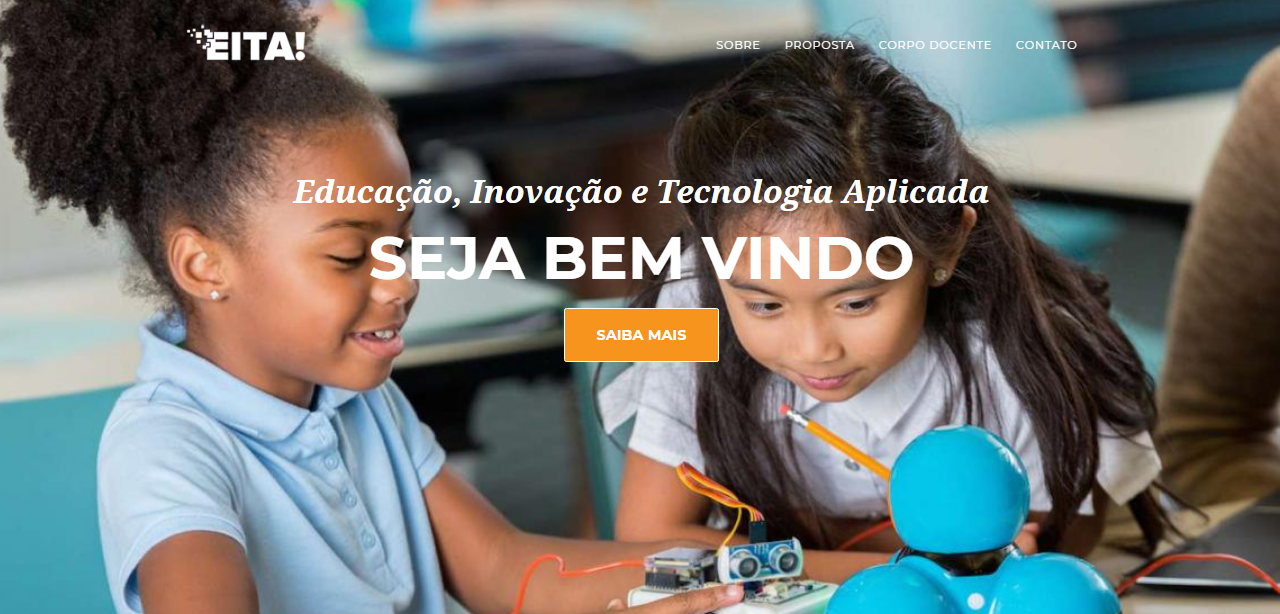
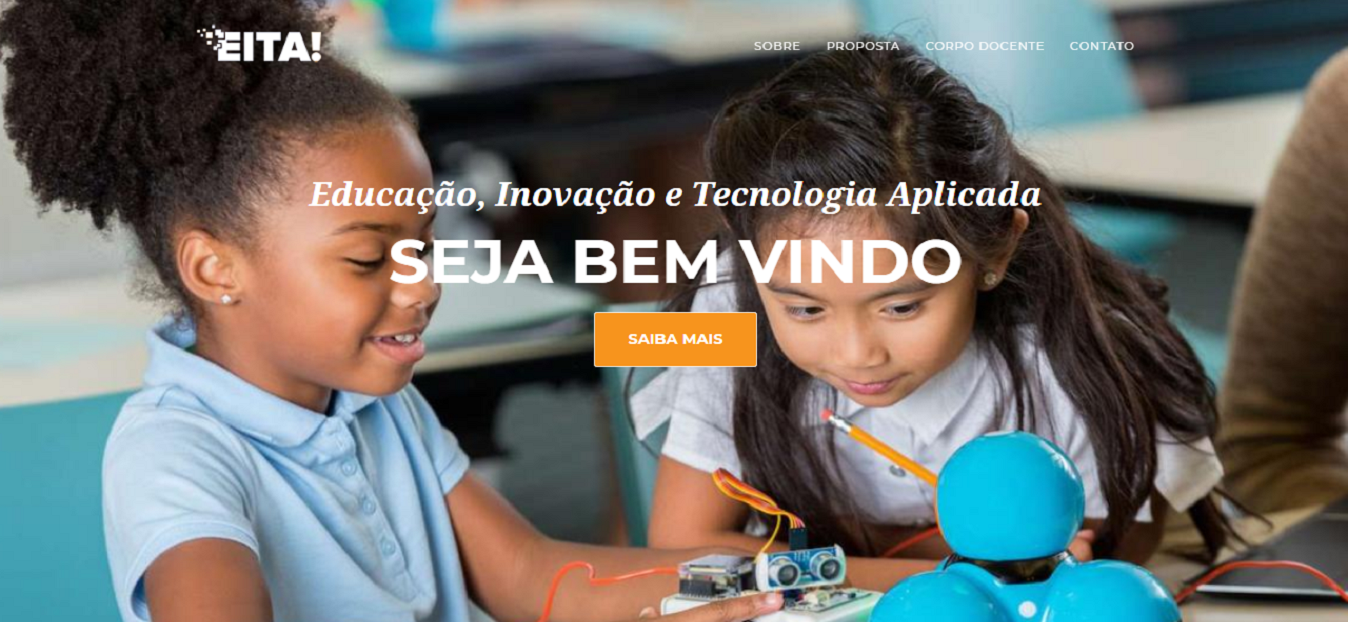
atualizações pt1

diff --git a/src/index.html b/src/index.html
@@ -22,8 +22,9 @@
   
 
 <!--Header-->
-<div class="container-fluid p-0">
-  <img src="../assets/header.png" class="w-100" style="min-height: 300px;">
+<div class="container-fluid p-0 flex-box container-box">
+  <img src="../assets/header.png" class="w-100">
+  
   <div class="cma">
     <h1>Junte-se a nós!</h1>
     
@@ -31,6 +32,7 @@
       maior movimento de 
        empreendedorismo jovem 
         do mundo.</p>
+        <button type="button" class="btn btn-primary">Inscreva-se</button>
   </div>
   
 </div>
@@ -38,10 +40,7 @@
 <!--Datas -->
   <div class="container-fluid">
           <div class="row">
-            <div class="col-sm p-4 text-center border border-white bg text-white">
-              <p>Etapas do Processo</p>
-              <a>Veja aqui o Edital!</a>
-            </div>
+           
             <div class="col-sm p-4 text-center border border-white bg text-white">
               <p>INSCRIÇÕES</p>
               <p> 13/Abril - 19/Abril</p>
@@ -62,6 +61,10 @@
               <p>RESULTADO FINAL</p>
               <p>01/Junho</p>
             </div>
+            <div class="col-sm p-4 text-center border border-white bg text-white" id="block-insc">
+              <p>CONFIRA O EDITAL</p>
+              <a>Link</a>
+            </div>
 
           </div>
           
@@ -73,15 +76,17 @@
       <div class="col-sm pt-5 pl-5">
         <h1><strong>Quem somos</strong></h1>
 
-        <p class="ml-4">
+        <p class="w-75 fonts-class ">
           Somos a empresa júnior de tecnologia da informação da Universidade Federal Rural de
           Pernambuco, formada por estudantes e sem fins lucrativos, buscamos o aprimoramento dos 
           alunos dos curso de graduação através da realização de projetos e da vivência empresarial,
           atuando no desenvolvimento de soluções para a web e dispositivos móveis, buscanto sempre semear
           a cultura empreendedora aliada a tecnologia dentro do espaço universitário.
         </p>
+        
+        <div class=" expo">
         <h1><strong>Movimento Empresa</strong></h1>
-        <p class="ml-4">
+        <p class="w-75 fonts-class">
           O MEJ tem como propósito a busca por um Brasil Empreendedor.
           Trabalhamos todos os dias para formar pessoas comprometidas e 
           capazes de transformar o Brasil por meio da realização de mais e
@@ -89,9 +94,10 @@
           Brasil em 1988.
         </p>
       </div>
+      </div>
 
       <div class="col-sm imgQuem pt-5">
-        <img src="../assets/Quem Somos.png" class="m-3" style="max-width: 600px; ">
+        <img src="../assets/Quem Somos.png" class="img-fluid"  >
       </div>
       
     </div>
@@ -100,14 +106,14 @@
 
 <!-- o quem tem a dizer-->
     
-<div class="container-fluid">
+<div class="container-fluid " id="depo">
 
-  <h1 class="mt-4 ml-3 mb-4 font-weight-bold">O que as pessoas tem a dizer sobre nós</h1>
+  <h1 class="mt-4 ml-3 mb-4 font-weight-bold" >O que as pessoas tem a dizer sobre nós</h1>
 
-  <div class="row p-4 border-top border-bottom border-dark">
+  <div class="row p-4 ">
 
     <div class="col-md-7 ">
-      <img src="../assets/rel-icon.png" style="max-width: 75px;">
+      
       <p id="falas" class="ml-4 mt-5 font-italic">
       </p>
       <p id="ass"class="float-right"></p>  
@@ -119,7 +125,7 @@
     
       <div class="tam carousel-inner" >
         <div class="carousel-item active" >
-          <img class="d-block w-100" src="../assets/Felipe.jpeg" alt="First slide">
+          <img class="d-block imgProjetos" src="../assets/Felipe.jpeg" alt="First slide">
         </div>
         <div class="carousel-item" >
           <img class="d-block w-100" src="../assets/Andressa.jpeg" alt="Second slide">
@@ -151,29 +157,30 @@
 </div>
 
   <!--Alguns de nossos projetos-->
-  <div class="container-fluid mt-4">
-    <h1 class="pl-3 font-weight-bold"> Alguns de nossos projetos</h1>
-    <div class="row mt-3 p-5 border-top border-bottom border-dark">
-      <div class="col-sm alin">
-
-        <h3>EITA - Site da Pós Graduação em Educação, 
-          Inovação e Tecnologia</h3>
-        <span class="mt-1 ">
-          <img src="../assets/EITA.PNG" class="imgProjetos p-2 ">
-        </span>
-      </div>
-      <div class="col-sm alin">
-        <h3 class="vw-50">INTEGRAR JR - Site da empresa júnior, Integrar Jr</h3>
-        <span class="mt-1">
-          <img src="../assets/IntegrarJr.PNG" class="imgProjetos p-2 ">
-        </span>
-      </div>
-      <div class="col-sm alin">
-        <h3>APP ACT IDIOMAS - Aplicativo para a empresa ACT Idiomas</h3>
-        <span>
-          <img src="../assets/act.png" class="imgProjetos p-2 ">
-        </span>
-        
+  <div class="container-fluid mt-4" id="projetos">
+    <div class="container-fluid mt-4" id="projetos">
+      <h1 class="pl-3 font-weight-bold"> Alguns de nossos projetos</h1>
+      <div class="row mt-3 p-5 ">
+        <div class="col-sm alin ">
+  
+          <h3>EITA - Site da Pós Graduação em Educação, 
+            Inovação e Tecnologia</h3>
+          <span class="exemplo-projetos-fig">
+            <img src="../assets/EITA.PNG" class="imgProjetos rounded mx-auto d-block ">
+          </span>
+        </div>
+        <div class="col-sm alin">
+          <h3 class="vw-50">INTEGRAR JR - Site da empresa júnior, Integrar Jr</h3>
+          <span class="mt-1">
+            <img src="../assets/IntegrarJr.PNG" class="imgProjetos rounded mx-auto d-block ">
+          </span>
+        </div>
+        <div class="col-sm alin">
+          <h3>NTESLA - Site institucional sobre empresa de energia alternativa</h3>
+          <span>
+            <img src="../assets/ntesla.PNG" class="imgProjetos rounded mx-auto d-block ">
+          </span>
+        </div>
       </div>
     </div>
   </div>
@@ -218,7 +225,7 @@
       <p class="ml-4">Não existe periodização mínima para o ingresso, apenas é necessário ter compromisso e muita vontade de aprender.</p>
   
       <h1>Alguma duvida?</h1>
-      <p class="ml-4">Entre em contato com a gente!</p>
+      <p class="ml-4">Entre em contato com a gente pelo email <b>processo.seletivo@seedabit.org.br</b></p>
 
 
      </div>
@@ -250,7 +257,6 @@
             </i>
           </span>
           </li>
-
           <li>
             <span style="color: white;">
              <i class="fas fa-envelope" style="font-size: 15px;">

diff --git a/src/custom.css b/src/custom.css
@@ -6,7 +6,7 @@
     width: 30vw;
     color: #ffffff;
     position: absolute;
-    left: 50px; top:120px;
+    left: 5rem; top:5rem;
 }
 .container-fluid .cma h1{
     font-size:50px;
@@ -62,9 +62,9 @@ button{
     float: right;
 }
 .imgProjetos{
-    max-width: 450px;
-    max-height: 250px;
-    border: solid 2px black;
+    max-width: 28rem;
+    max-height: 15rem;
+   
 }
 .alin {
 text-align: center;
@@ -79,4 +79,55 @@ footer img {
 .redeslogo {
     position: absolute;
     right:6px; bottom: 6px;
+}
+.fonts-class{
+  
+   font-size: 1.2rem;
+}
+.expo{
+    margin-top: 3rem;
+}
+
+#block-insc{
+    color: black;
+}
+#depo{
+    margin-top: 6rem;
+    padding-top: 4rem;
+    padding-bottom: 4rem;
+    padding-left: 2rem;
+    background-color: rgb(212, 219, 233);
+}
+#projetos{
+    margin-top: 6rem;
+    padding-top: 4rem;
+    padding-bottom: 4rem;
+    padding-left: 2rem;
+}
+.exemplo-projetos-fig{
+    padding-top: 10rem;
+}
+
+/*Teste de alinhamento*/
+html, body {
+    width: 100%;
+    height: 100%;
+    display: flex;
+    margin: 0;
+    padding: 0;
+    background: url(https://www.placecage.com/c/500/500) no-repeat center;
+    background-size: cover;
+}
+.centro {
+    margin: auto;
+    background-color: rgba(0, 0, 0, .5);
+    height: 100px;
+    width: 100%;
+    display: flex;
+}
+.conteudo {
+    height: 50px;
+    width: 50px;
+    background-color: red;
+    margin: auto;
 }
